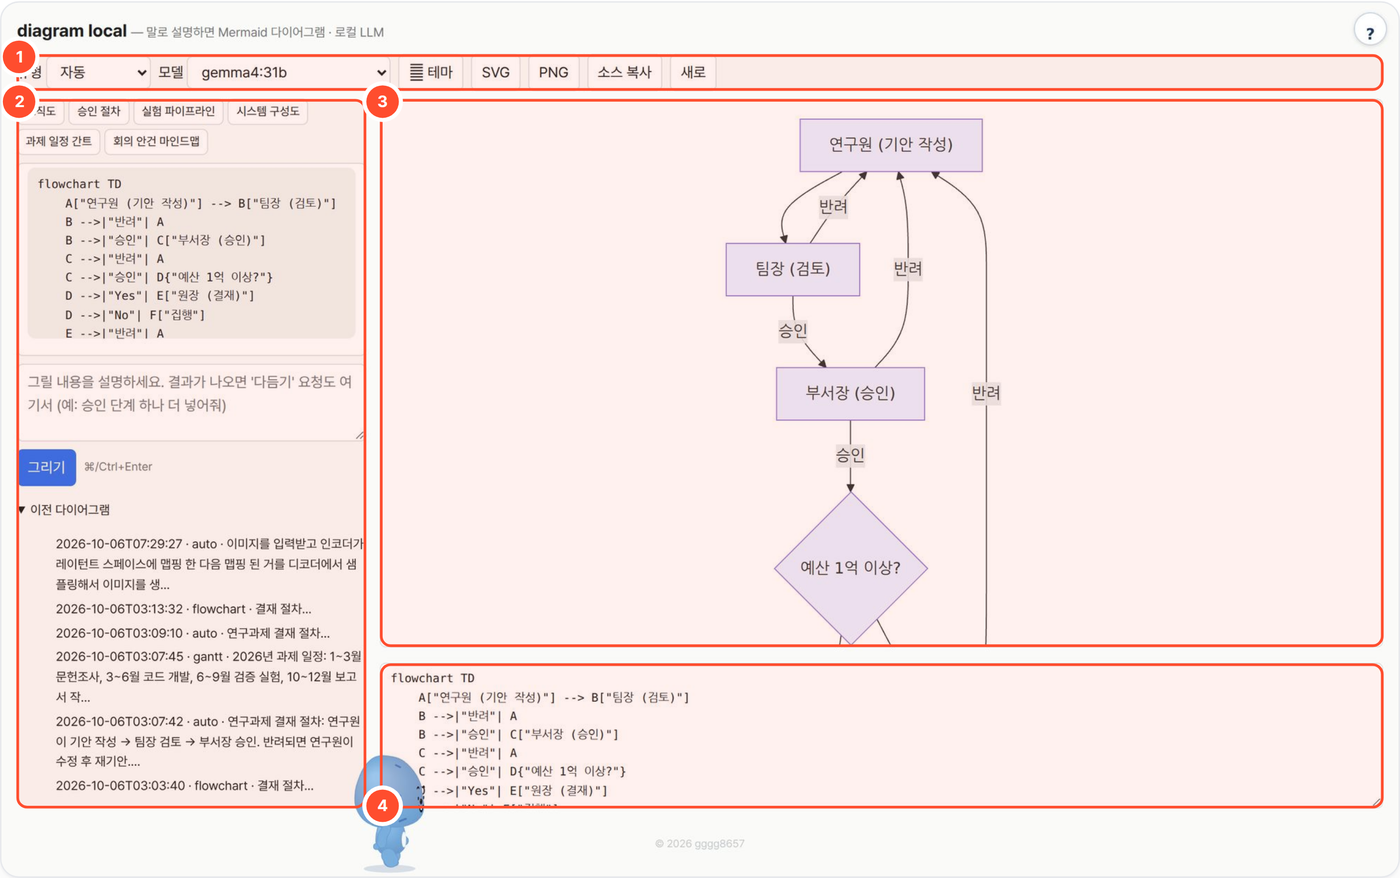
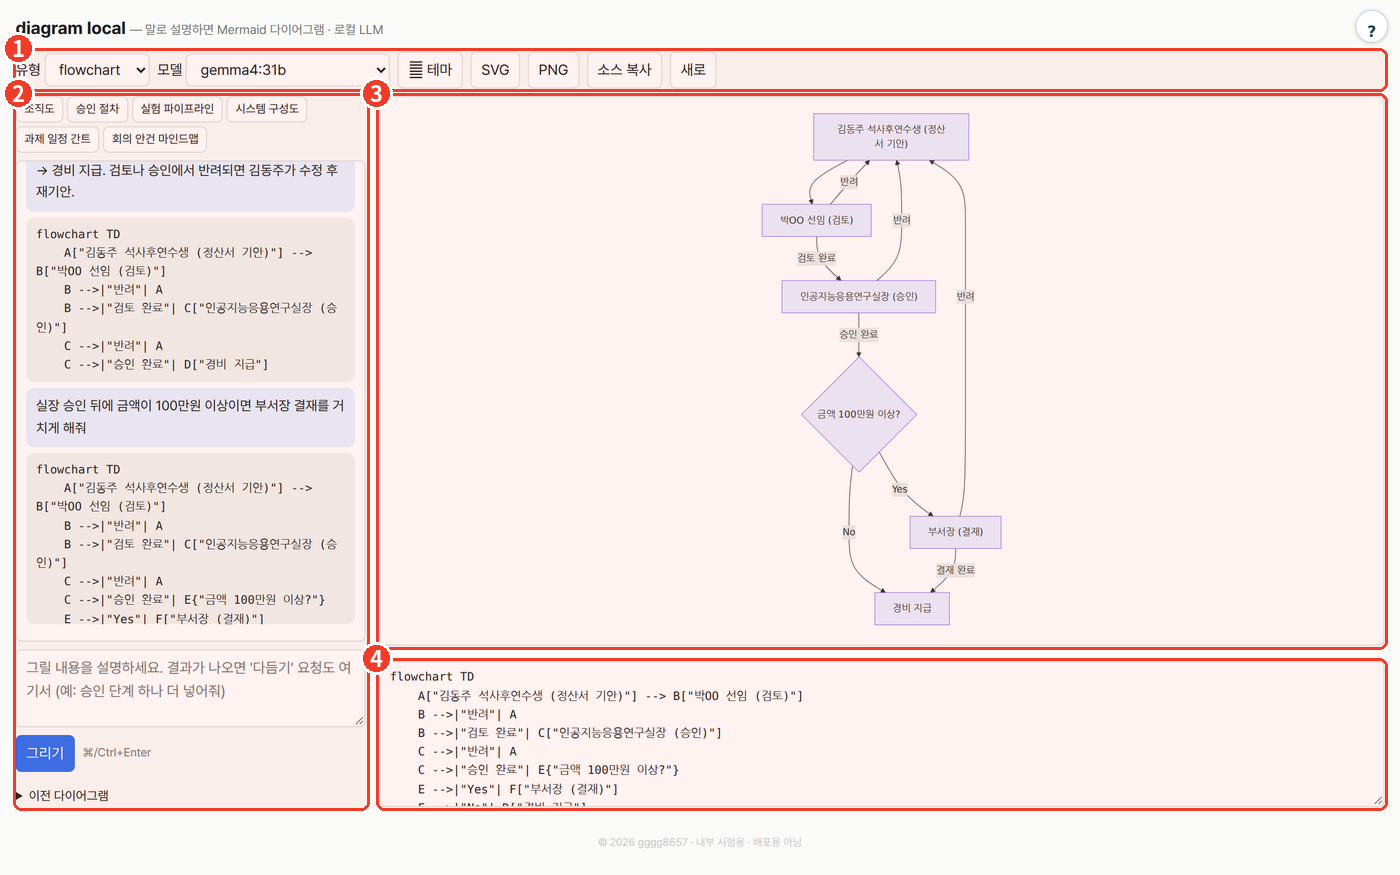
README: 사용 화면·예시를 새 실행 결과로 교체 (2026-10-12)

diff --git a/README.md b/README.md
@@ -26,10 +26,11 @@
 
 ## 예시
 
-실제로 실행한 입력과 결과입니다(gemma4:31b, 2026-10-06).
+실제로 실행한 입력과 결과입니다(gemma4:31b, 2026-10-12).
 
-- **입력**: `연구과제 결재 절차: 연구원이 기안 작성 → 팀장 검토 → 부서장 승인. 반려되면 연구원이 수정 후 재기안. 승인 후 예산이 1억 이상이면 원장 결재, 아니면 바로 집행`
-- **결과**: 연구원 → 팀장 → 부서장 → 예산 조건(1억 이상?) → 원장 결재 또는 집행 흐름의 Mermaid 순서도. 각 단계의 반려 연결도 들어갑니다(위 화면 ③·④).
+- **입력**: `학회 출장비 정산 결재 절차: 김동주 석사후연수생이 정산서 기안 → 박OO 선임 검토 → 인공지능응용연구실장 승인 → 경비 지급. 검토나 승인에서 반려되면 김동주가 수정 후 재기안.`
+- **결과**: 기안 → 검토 → 실장 승인 → 경비 지급 순서도. 검토·승인의 반려 연결이 기안으로 돌아갑니다.
+- **다듬기**: 같은 칸에 `실장 승인 뒤에 금액이 100만원 이상이면 부서장 결재를 거치게 해줘` → 금액 조건 분기와 부서장 결재 단계가 추가된 순서도(위 화면 ②·③·④).
 
 결재 단계와 금액 기준은 예시이며, 실제 기관 결재 규정을 검증한 결과가 아닙니다.
 
